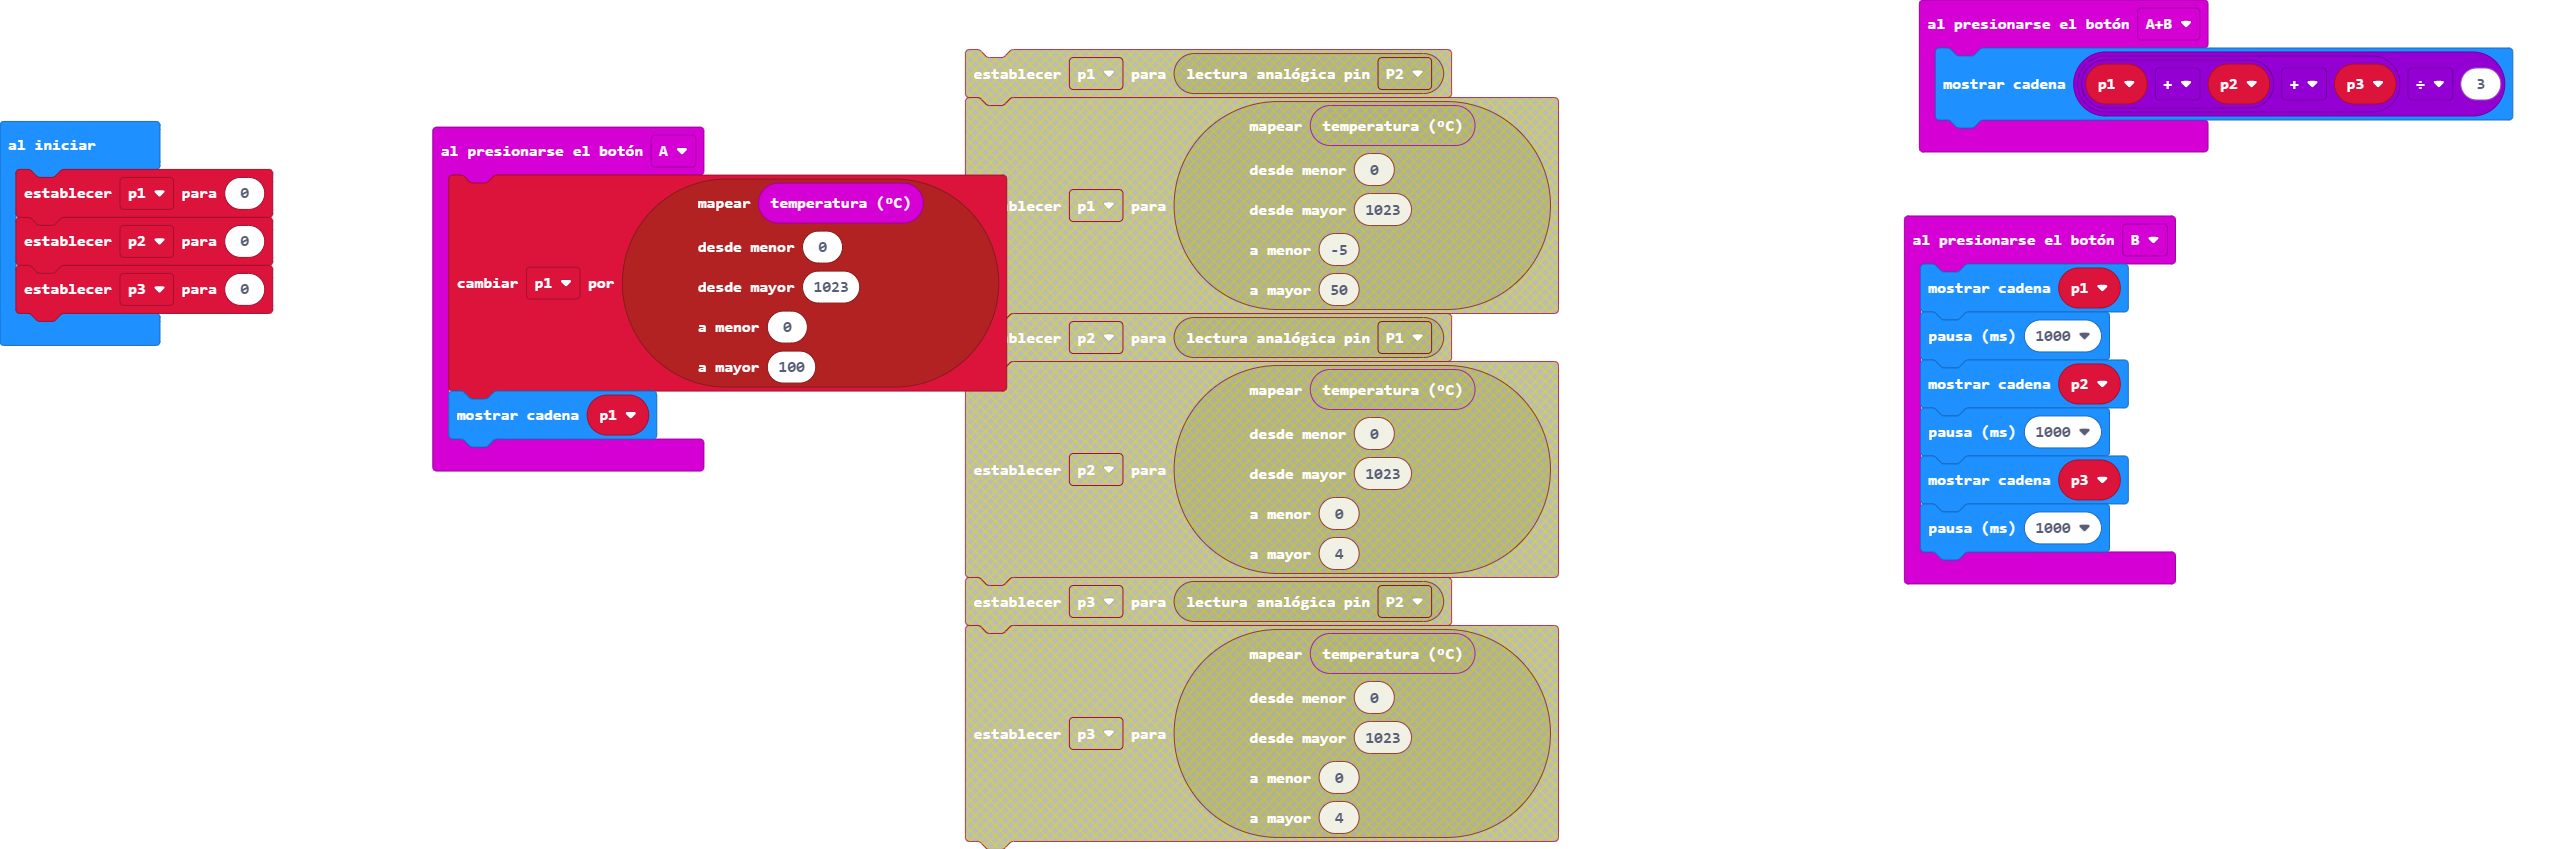
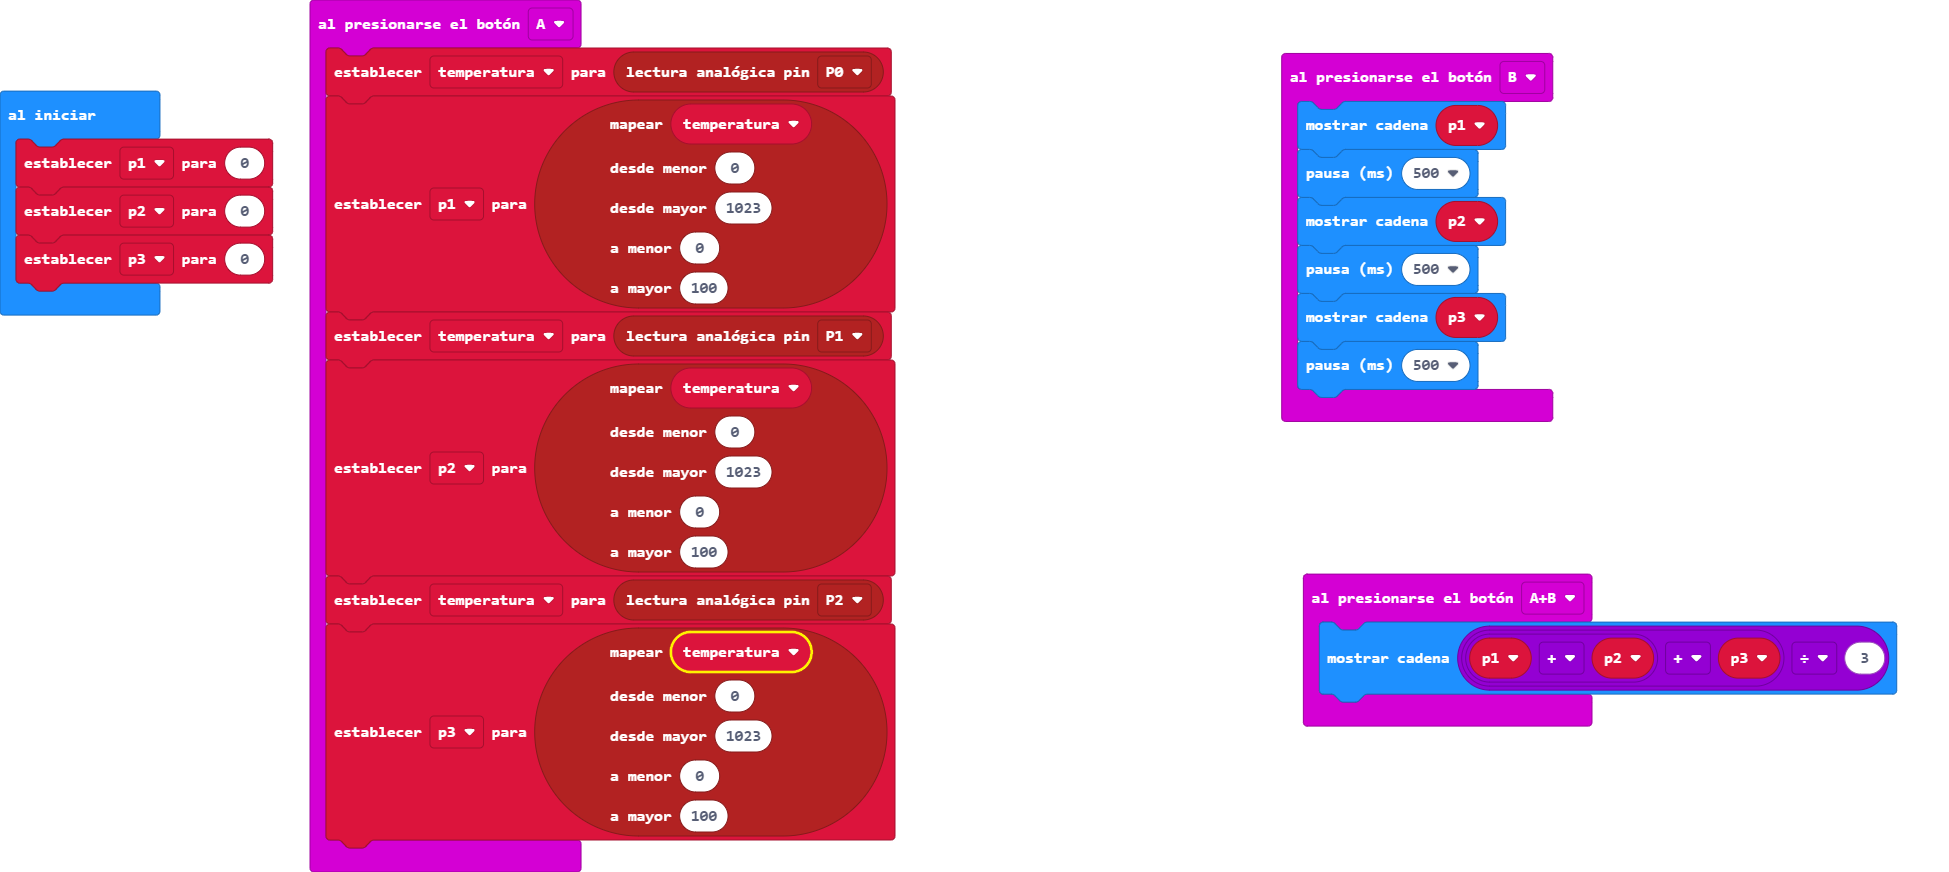
Actualizar main.blocks, main.ts

diff --git a/main.ts b/main.ts
@@ -1,24 +1,41 @@
 input.onButtonPressed(Button.A, function () {
-    p1 += pins.map(
-    input.temperature(),
+    temperatura = pins.analogReadPin(AnalogPin.P0)
+    p1 = pins.map(
+    temperatura,
     0,
     1023,
     0,
     100
     )
-    basic.showString("" + (p1))
+    temperatura = pins.analogReadPin(AnalogPin.P1)
+    p2 = pins.map(
+    temperatura,
+    0,
+    1023,
+    0,
+    100
+    )
+    temperatura = pins.analogReadPin(AnalogPin.P2)
+    p3 = pins.map(
+    temperatura,
+    0,
+    1023,
+    0,
+    100
+    )
 })
 input.onButtonPressed(Button.AB, function () {
     basic.showString("" + ((p1 + p2 + p3) / 3))
 })
 input.onButtonPressed(Button.B, function () {
     basic.showString("" + (p1))
-    basic.pause(1000)
+    basic.pause(500)
     basic.showString("" + (p2))
-    basic.pause(1000)
+    basic.pause(500)
     basic.showString("" + (p3))
-    basic.pause(1000)
+    basic.pause(500)
 })
+let temperatura = 0
 let p3 = 0
 let p2 = 0
 let p1 = 0
